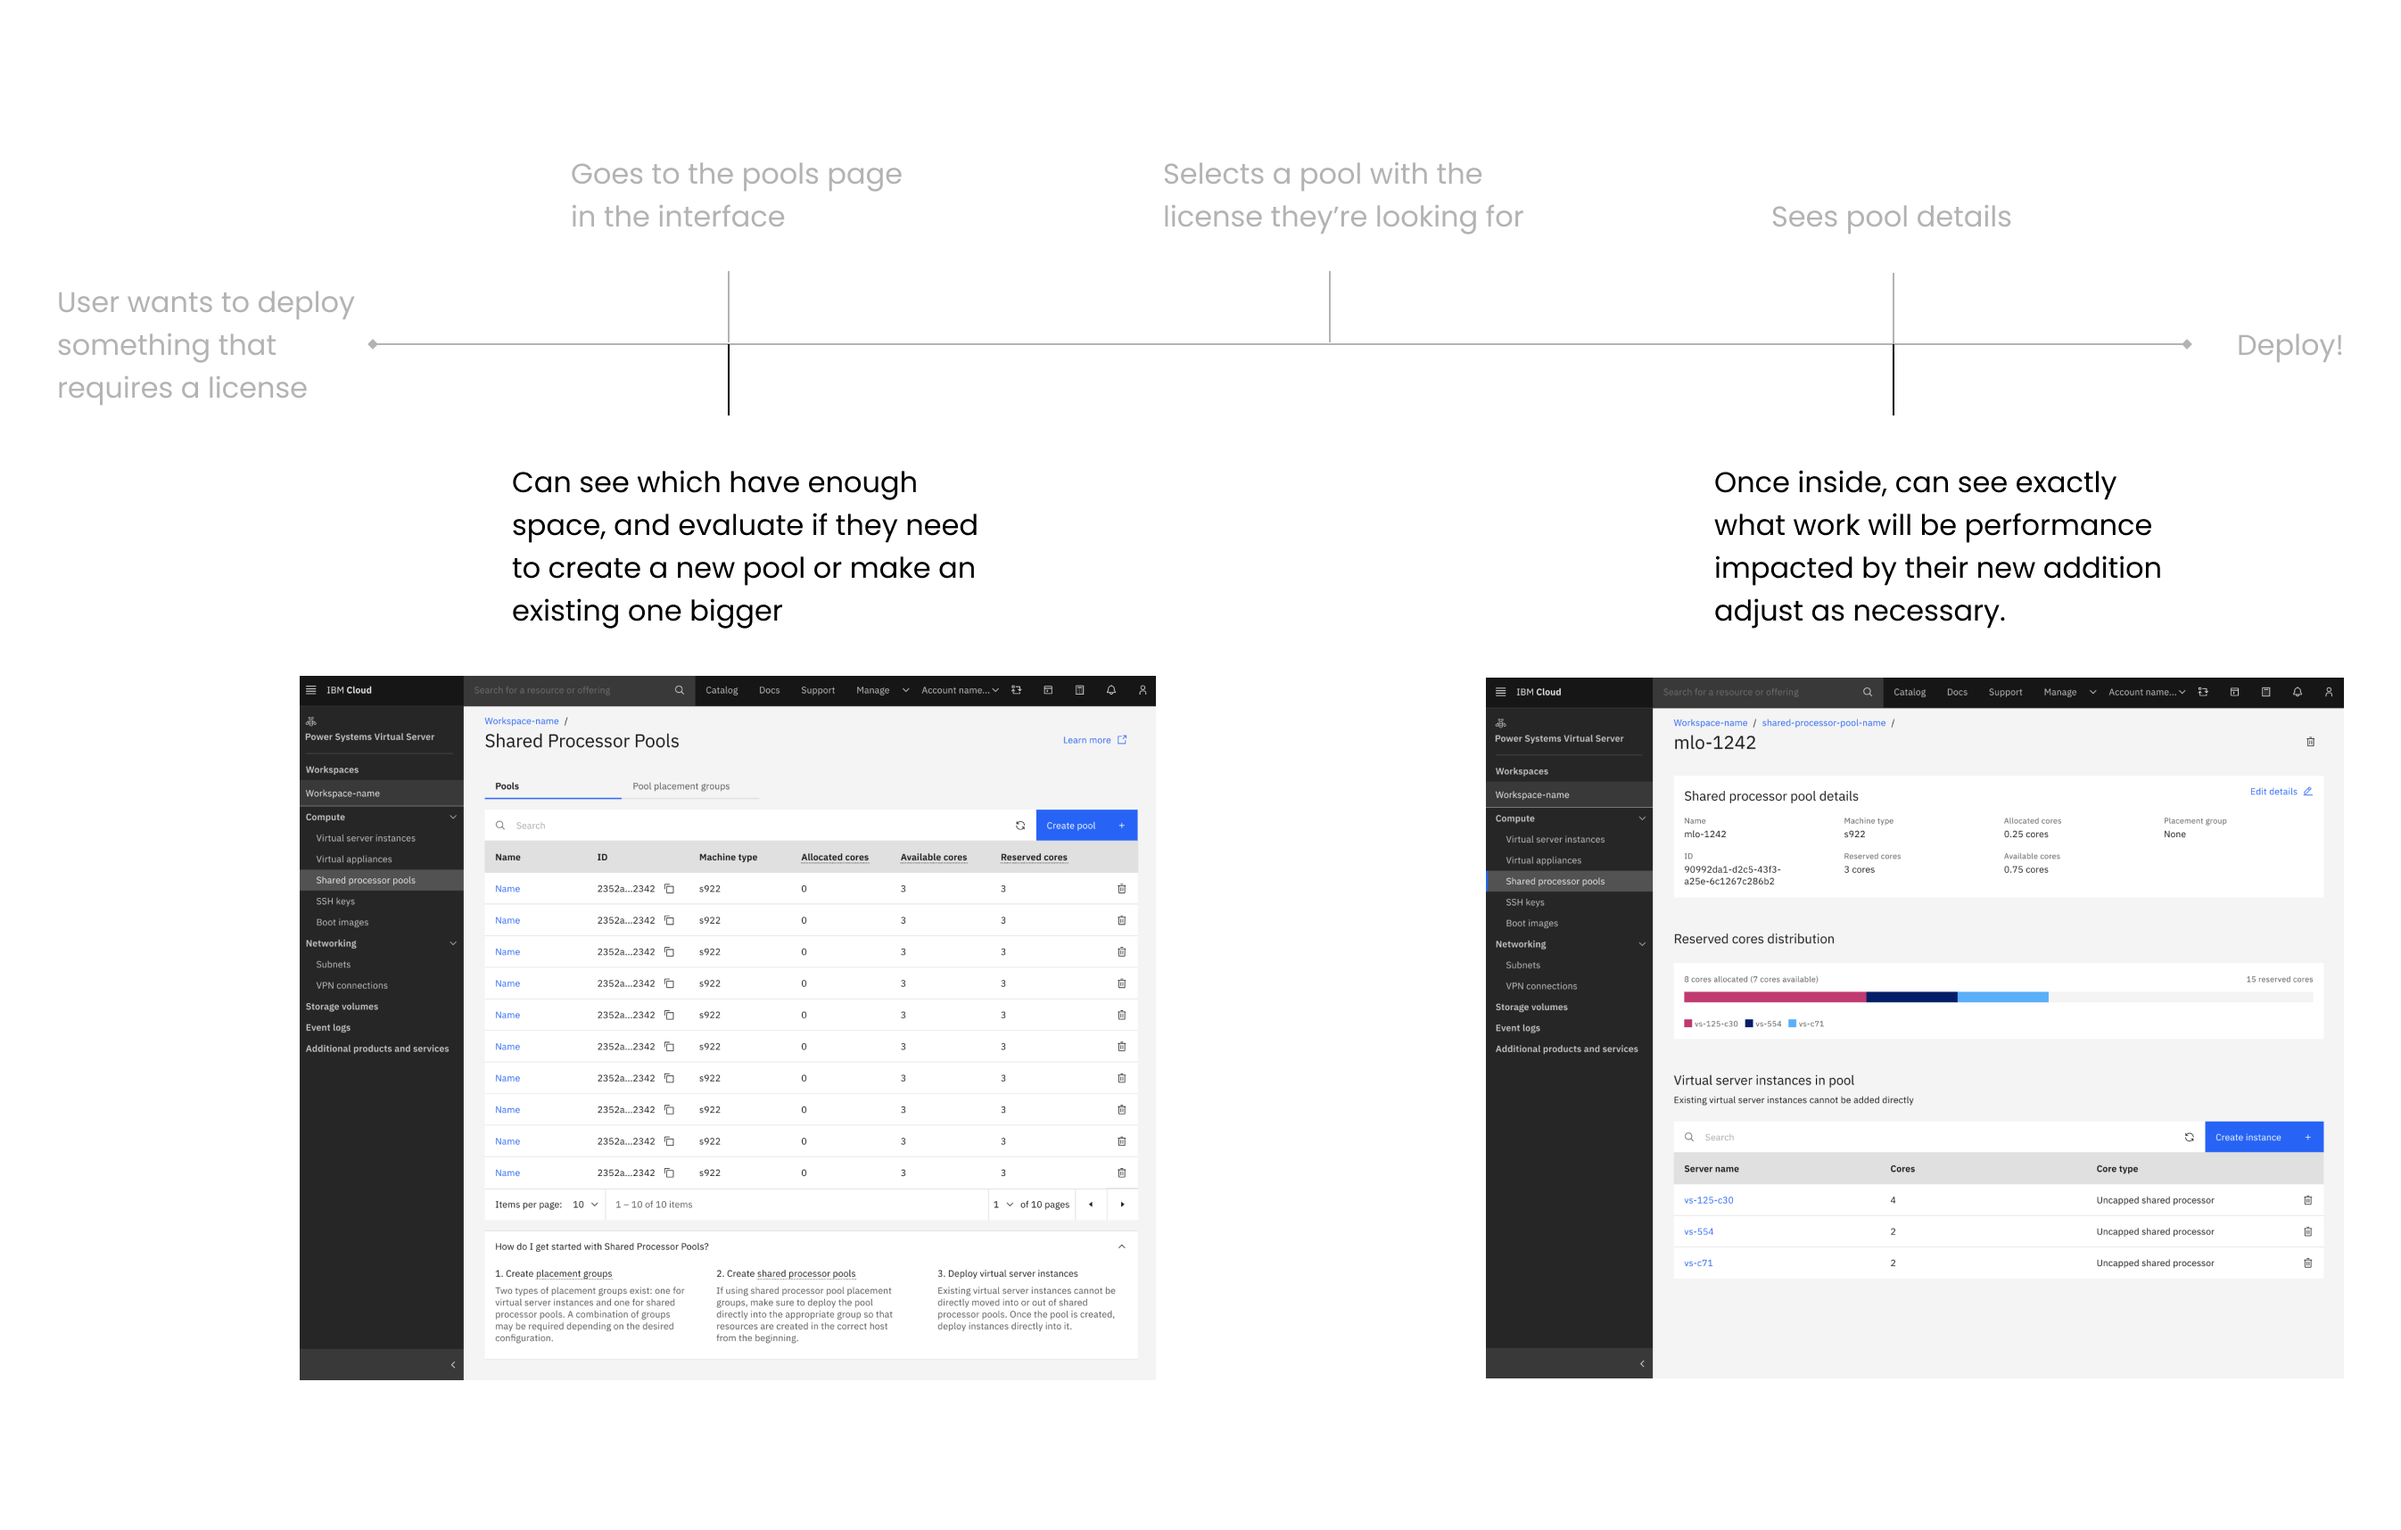
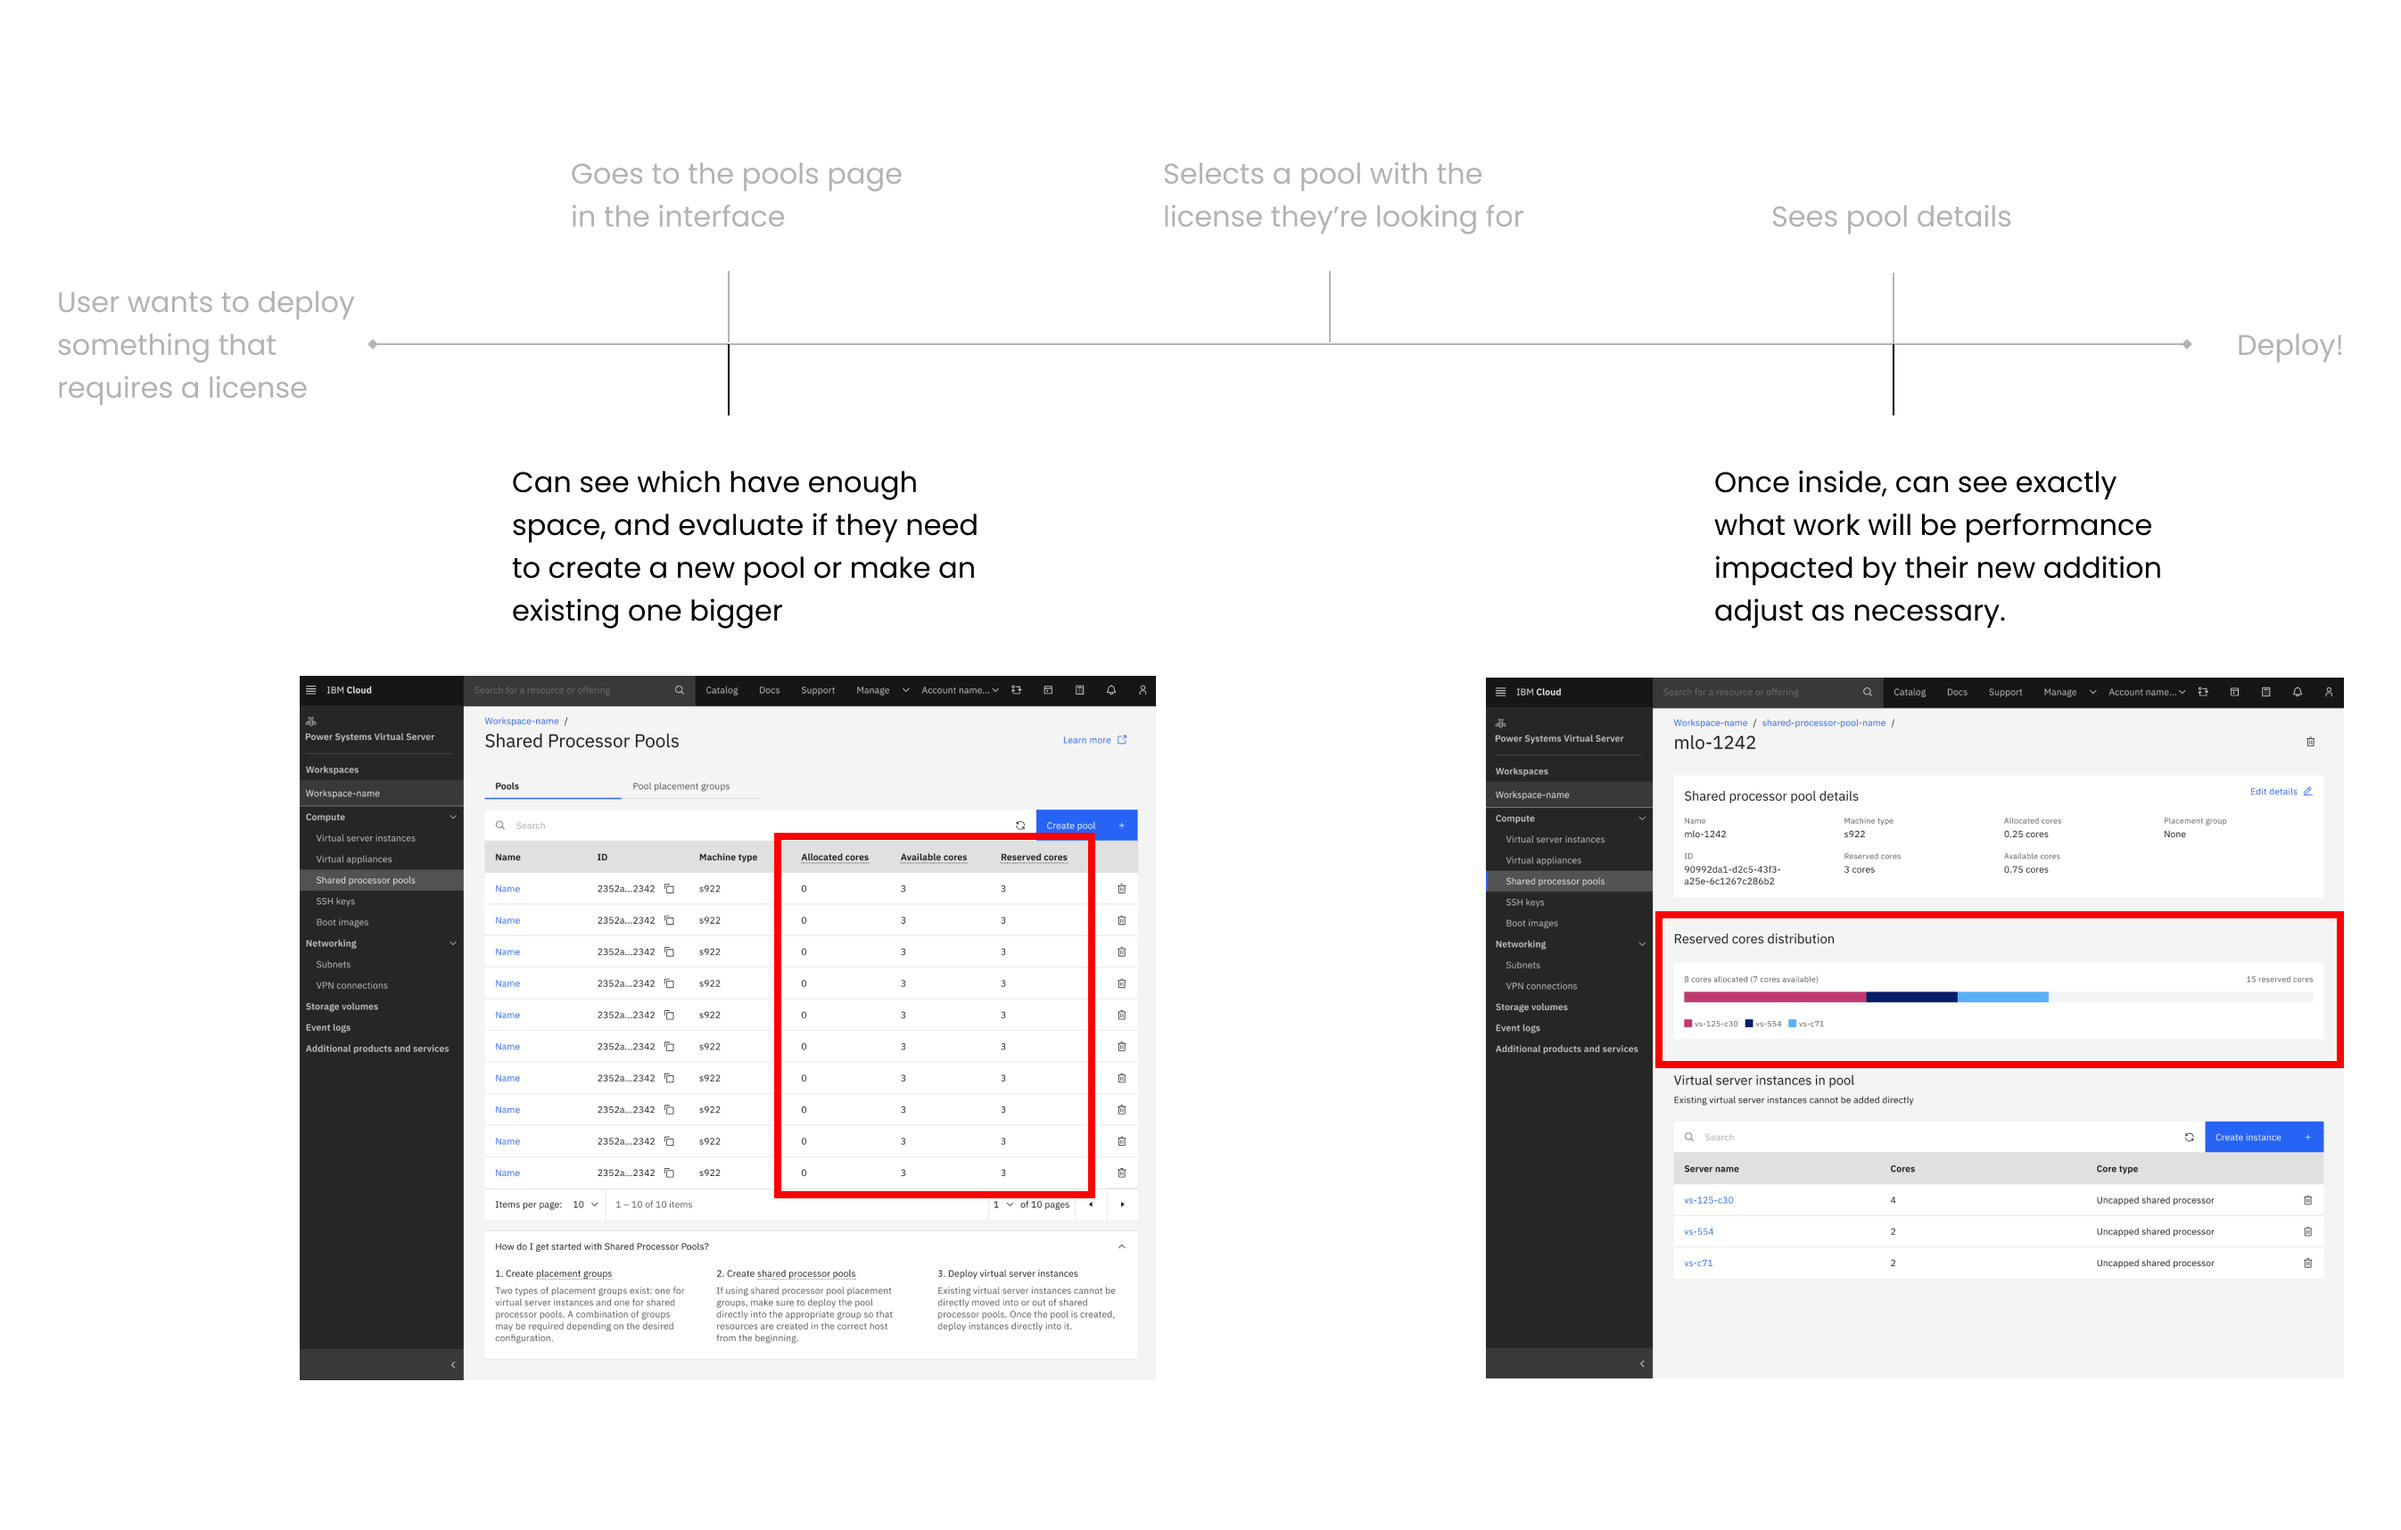
Update visuals

diff --git a/src/pages/Project/Pools/index.js b/src/pages/Project/Pools/index.js
@@ -34,6 +34,7 @@ import SPPInvisionFreehand from '../../../assets/images/Pools/spp-invision-freeh
 import SPPMuralBoard from '../../../assets/images/Pools/spp-mural-board.png';
 import SPPExploration from '../../../assets/images/Pools/spp-exploration.png';
 import SPPExplanationDiagram from '../../../assets/images/Pools/spp-explanation-diagram.png';
+import SPPPlacementGroups from '../../../assets/images/Pools/spp-placement-groups.png';
 
 const lineBreakPadding = '.5rem';
 const subSectionBreakPadding = '1.5rem';
@@ -337,11 +338,11 @@ const Pools = ({}) => {
               </AccordionPanel>
             </AccordionItem>
           </Accordion>
-          <Text as="h3">2. Understand the performance of a pool</Text>
+          <Text as="h3">2. Making deployment restrictions easy to understand and manage</Text>
           <Lightbox
-            id="SPPUnderstandPerformance"
+            id="SPPUnderstandGroups"
             paddingBottom={subSectionBreakPadding}
-            src={SPPDetailsFilled}
+            src={SPPPlacementGroups}
             onLoad={onLoad}
           />
           <Text paddingBottom={lineBreakPadding}>
@@ -355,7 +356,6 @@ const Pools = ({}) => {
             Once a user define the restrictions on a pool, adding stuff to it falls under
             the same defined restrictions and everything stays organized without the user
             having to think about it again.
-
           </Text>
           <SectionBreak />
         </GridItem>
@@ -384,10 +384,14 @@ const Pools = ({}) => {
             paddingBottom={lineBreakPadding}
           />
           <Text paddingBottom={lineBreakPadding}>
-            We went through a few use cases with users who used SPP before the cloud, to understand the impact of SPP on their workloads, and to get more direction on how to proceed.
+            We went through a few use cases with users who used SPP before the cloud, to understand
+            the impact of SPP on their workloads, and to get more direction on how to proceed.
           </Text>
           <Text paddingBottom={subSectionBreakPadding}>
-            We then talked to SPP developers and our own development team to get a better understanding of the options we could work with on a technical level. Generally this is not a step in our exploration process for features, but adding a restriction to VM placement set off warning bells.
+            We then talked to SPP developers and our own development team to get a better
+            understanding of the options we could work with on a technical level. Generally this
+            is not a step in our exploration process for features, but adding a restriction to
+            VM placement set off warning bells.
           </Text>
           <Text
             paddingBottom={lineBreakPadding}
